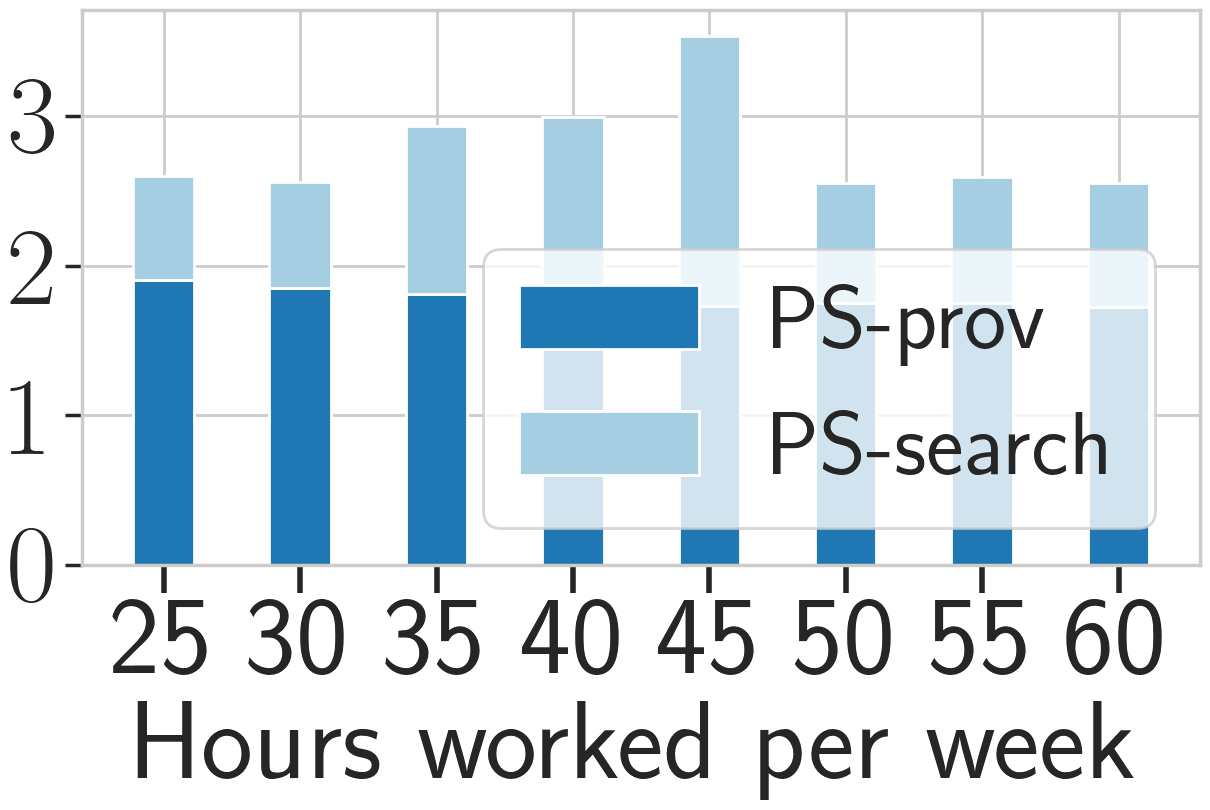
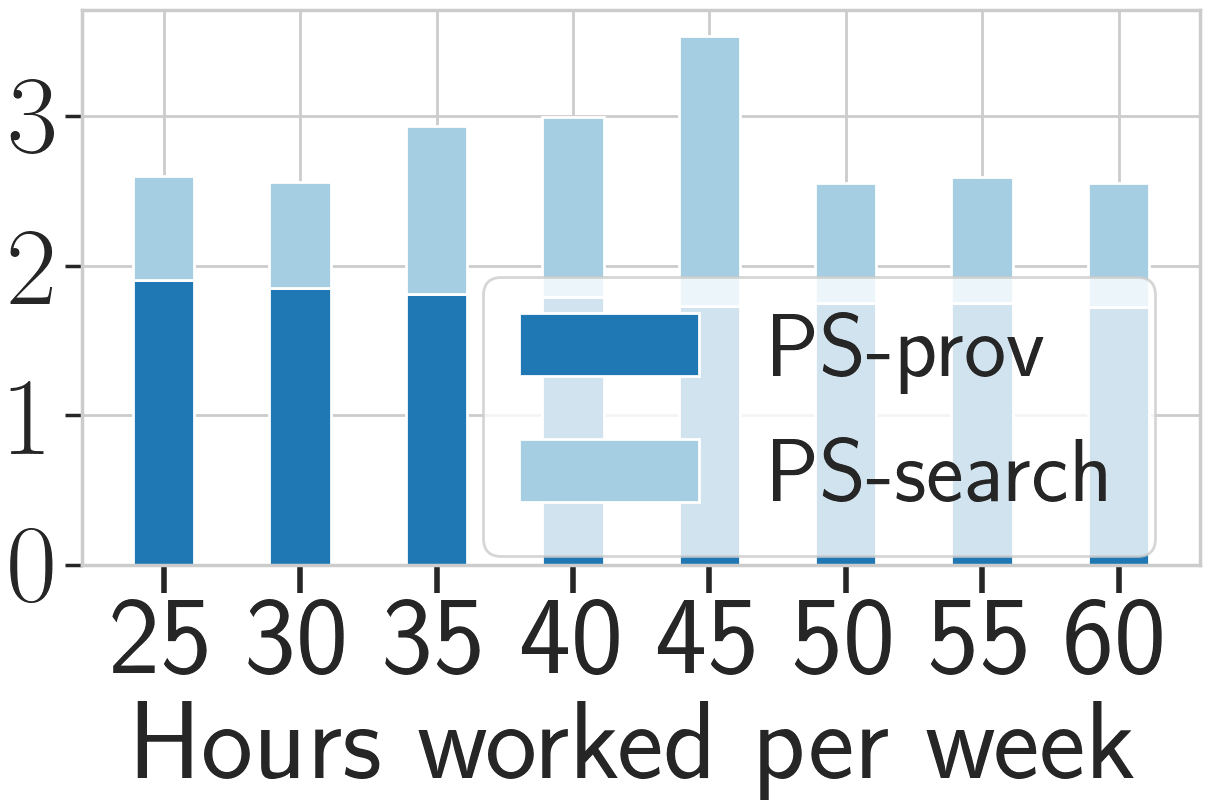
acsincome

diff --git a/Experiment/ACSIncome/whole_data/query_selectivity/q1_refine2/fig.py b/Experiment/ACSIncome/whole_data/query_selectivity/q1_refine2/fig.py
@@ -86,7 +86,7 @@ def run(query, constraint):
     plt.yticks(fontsize=80, weight='bold')
 
     plt.xlabel(r'Hours worked per week', fontsize=80, weight='bold')
-    plt.legend(loc='upper right', bbox_to_anchor=(1, 0.65), fontsize=65)
+    plt.legend(loc='upper right', bbox_to_anchor=(1, 0.6), fontsize=65)
 
     plt.tight_layout()
     fig_path = "query_selectivity_q" + str(query) + "_" + constraint + ".png"
